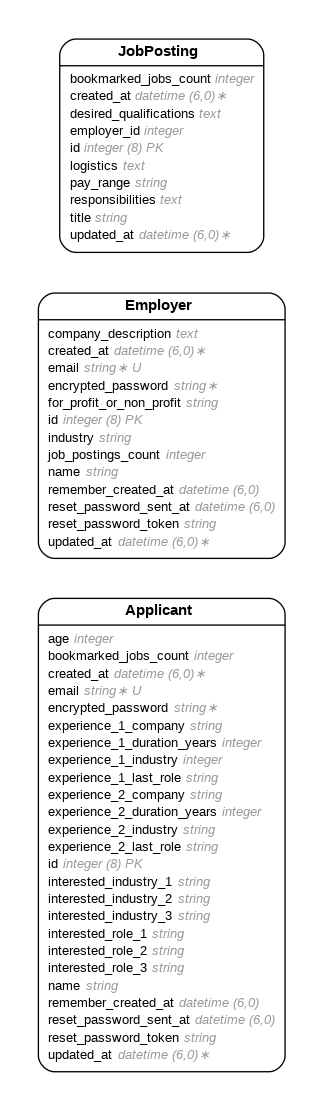
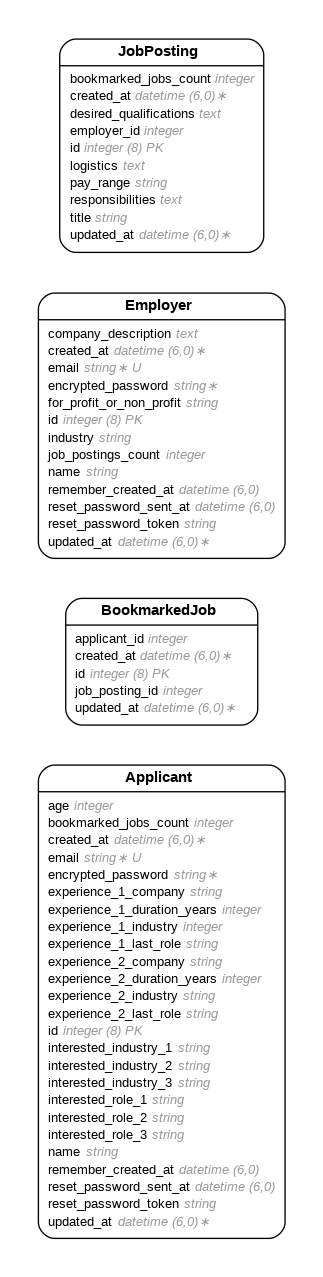
added bookmarked job table

Changed region(s): [[0.0929, 0.0306, 0.8978, 0.9793], [0.8669, 0.5509, 0.8978, 0.6121], [0.743, 0.7651, 0.805, 0.7957]]

diff --git a/app/controllers/bookmarked_jobs_controller.rb b/app/controllers/bookmarked_jobs_controller.rb
@@ -1,0 +1,56 @@
+class BookmarkedJobsController < ApplicationController
+  def index
+    matching_bookmarked_jobs = BookmarkedJob.all
+
+    @list_of_bookmarked_jobs = matching_bookmarked_jobs.order({ :created_at => :desc })
+
+    render({ :template => "bookmarked_jobs/index" })
+  end
+
+  def show
+    the_id = params.fetch("path_id")
+
+    matching_bookmarked_jobs = BookmarkedJob.where({ :id => the_id })
+
+    @the_bookmarked_job = matching_bookmarked_jobs.at(0)
+
+    render({ :template => "bookmarked_jobs/show" })
+  end
+
+  def create
+    the_bookmarked_job = BookmarkedJob.new
+    the_bookmarked_job.applicant_id = params.fetch("query_applicant_id")
+    the_bookmarked_job.job_posting_id = params.fetch("query_job_posting_id")
+
+    if the_bookmarked_job.valid?
+      the_bookmarked_job.save
+      redirect_to("/bookmarked_jobs", { :notice => "Bookmarked job created successfully." })
+    else
+      redirect_to("/bookmarked_jobs", { :alert => the_bookmarked_job.errors.full_messages.to_sentence })
+    end
+  end
+
+  def update
+    the_id = params.fetch("path_id")
+    the_bookmarked_job = BookmarkedJob.where({ :id => the_id }).at(0)
+
+    the_bookmarked_job.applicant_id = params.fetch("query_applicant_id")
+    the_bookmarked_job.job_posting_id = params.fetch("query_job_posting_id")
+
+    if the_bookmarked_job.valid?
+      the_bookmarked_job.save
+      redirect_to("/bookmarked_jobs/#{the_bookmarked_job.id}", { :notice => "Bookmarked job updated successfully."} )
+    else
+      redirect_to("/bookmarked_jobs/#{the_bookmarked_job.id}", { :alert => the_bookmarked_job.errors.full_messages.to_sentence })
+    end
+  end
+
+  def destroy
+    the_id = params.fetch("path_id")
+    the_bookmarked_job = BookmarkedJob.where({ :id => the_id }).at(0)
+
+    the_bookmarked_job.destroy
+
+    redirect_to("/bookmarked_jobs", { :notice => "Bookmarked job deleted successfully."} )
+  end
+end

diff --git a/db/schema.rb b/db/schema.rb
@@ -10,7 +10,7 @@
 #
 # It's strongly recommended that you check this file into your version control system.
 
-ActiveRecord::Schema[7.1].define(version: 2024_12_10_210207) do
+ActiveRecord::Schema[7.1].define(version: 2024_12_10_210246) do
   # These are extensions that must be enabled in order to support this database
   enable_extension "plpgsql"
 
@@ -41,6 +41,13 @@ ActiveRecord::Schema[7.1].define(version: 2024_12_10_210207) do
     t.datetime "updated_at", null: false
     t.index ["email"], name: "index_applicants_on_email", unique: true
     t.index ["reset_password_token"], name: "index_applicants_on_reset_password_token", unique: true
+  end
+
+  create_table "bookmarked_jobs", force: :cascade do |t|
+    t.integer "applicant_id"
+    t.integer "job_posting_id"
+    t.datetime "created_at", null: false
+    t.datetime "updated_at", null: false
   end
 
   create_table "employers", force: :cascade do |t|

diff --git a/config/routes.rb b/config/routes.rb
@@ -1,4 +1,23 @@
 Rails.application.routes.draw do
+  # Routes for the Bookmarked job resource:
+
+  # CREATE
+  post("/insert_bookmarked_job", { :controller => "bookmarked_jobs", :action => "create" })
+          
+  # READ
+  get("/bookmarked_jobs", { :controller => "bookmarked_jobs", :action => "index" })
+  
+  get("/bookmarked_jobs/:path_id", { :controller => "bookmarked_jobs", :action => "show" })
+  
+  # UPDATE
+  
+  post("/modify_bookmarked_job/:path_id", { :controller => "bookmarked_jobs", :action => "update" })
+  
+  # DELETE
+  get("/delete_bookmarked_job/:path_id", { :controller => "bookmarked_jobs", :action => "destroy" })
+
+  #------------------------------
+
   # Routes for the Job posting resource:
 
   # CREATE

diff --git a/app/models/bookmarked_job.rb b/app/models/bookmarked_job.rb
@@ -1,0 +1,12 @@
+# == Schema Information
+#
+# Table name: bookmarked_jobs
+#
+#  id             :bigint           not null, primary key
+#  created_at     :datetime         not null
+#  updated_at     :datetime         not null
+#  applicant_id   :integer
+#  job_posting_id :integer
+#
+class BookmarkedJob < ApplicationRecord
+end

diff --git a/db/migrate/20241210210246_create_bookmarked_jobs.rb b/db/migrate/20241210210246_create_bookmarked_jobs.rb
@@ -1,0 +1,10 @@
+class CreateBookmarkedJobs < ActiveRecord::Migration[7.1]
+  def change
+    create_table :bookmarked_jobs do |t|
+      t.integer :applicant_id
+      t.integer :job_posting_id
+
+      t.timestamps
+    end
+  end
+end
